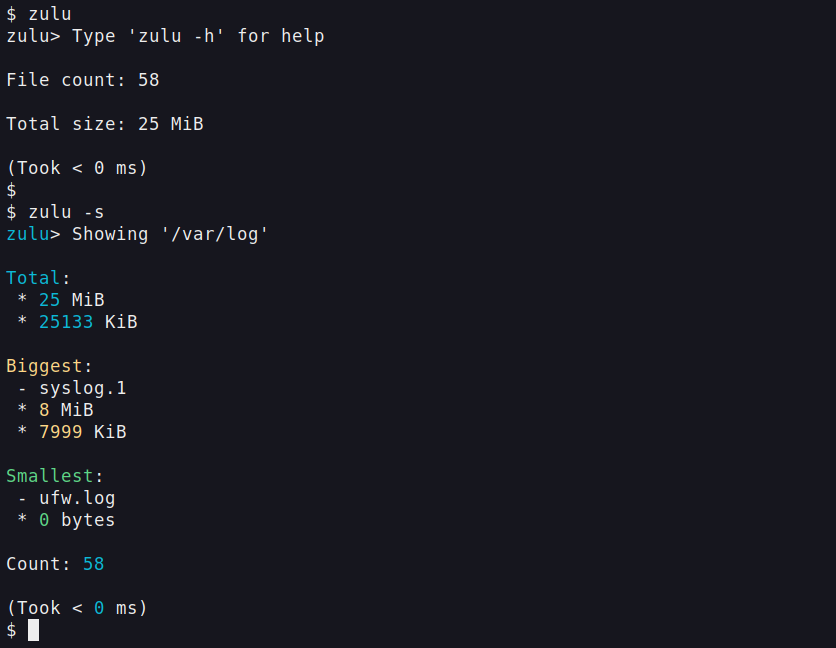
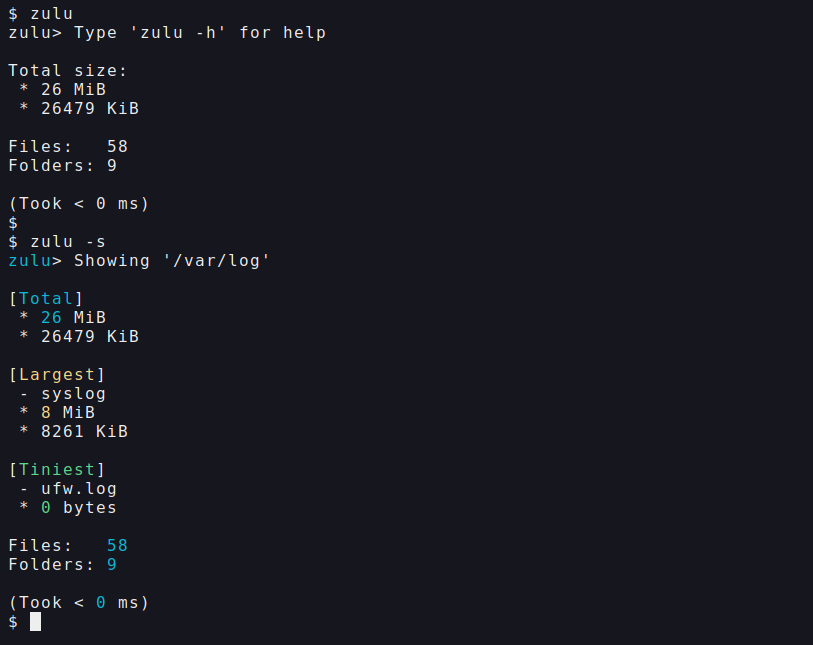
Updated docs, new pictures

diff --git a/README.md b/README.md
@@ -1,16 +1,13 @@
 # Zulu CLI
 
-> Performant directory summaries in a readable format
-
 * **Requirements:** C compiler and a POSIX system, no other dependencies.
 
 * **Versions:** in [releases](https://github.com/Ivory-Hubert/zulu/releases)
-
-* **Integration:** [examples](./docs/EXAMPLES.md) using piped output 
+ 
 
 ## Appearance
 
-That's the basic output and summary version in action:
+That's the basic output and summary in action:
 
 ![Nice CLI](docs/pics/basic_output.png)
 
@@ -18,17 +15,19 @@ That's the basic output and summary version in action:
 ## Features
 
 * Summaries of the current directory or a provided one.
-* Lists only useful units together, depending on sizes: GiB & MiB | MiB & KiB | Bytes.
+* Lists only useful units together, depending on sizes: `GiB & MiB` | `MiB & KiB` | `KiB & bytes` | `just bytes`
 * Can list the files & subfolders found, *always lists the biggest & smallest file*.
-* Simple output mode that skips some logic, to display only total size & count, and only in the largest unit needed.
+* Simple output mode that skips some logic, to display only total size & count, and only in the largest units needed.
 * Byte output mode that skips math entirely, only lists as it reads. *This mode outputs in a parser-friendly format when piped*.
 * Built-in byte converter, displays provided bytes in GiB, MiB & KiB.
 * Can display detailed file stats for CWD files or full paths, *follows symlinks by default*.
 
-Some visual output [examples](./docs/pics)
+See also:
+* Some more output [screenshots](./docs/pics/README.md)
+* Integration [examples](./docs/EXAMPLES.md) using piped output
 
 > [!NOTE]
-> Zulu does not report any metadata other than file size, *outside of file stat view*. Does not go into subdirectories. Ignores non-files entirely, *can still list subfolders*.
+> Zulu does not report any metadata other than file size, *outside of file stat view*. Does not go into subdirectories. Ignores non-files entirely, *will still list the subfolders*.
 
 
 ## About
@@ -42,4 +41,5 @@ Do note that you should either trust my provided binary (*reverse engineer for a
 I naturally have the `compile.sh` & `Makefile` in root for gcc users. 
 Then drop it in `~/.local/bin` or make a bash alias to the binary for easy access.
 
-Feedback, suggestions and contributions are always welcome.
+---
+Feedback, suggestions and contributions are always welcome. Licensed under the terms of the GNU [General Public License version 3](https://www.gnu.org/licenses/gpl-3.0.html)

diff --git a/CHANGELOG.md b/CHANGELOG.md
@@ -6,6 +6,18 @@ The format is based on [Keep a Changelog](https://keepachangelog.com/en/1.1.0/)
 
 [DA](https://github.com/Ivory-Hubert/Developer-Assistant) assures the format stays consistent.
 
+## [Unreleased]
+
+### Changed
+- **Unit math & display**
+
+Changed the math engine a bit, so now for every size category (*total, biggest, smallest*) two units are always displayed. So: `GiB | MiB`, `MiB | KiB`, `KiB & bytes`, or just bytes. Also the basic no colour output will now show the second unit aswell. 
+
+- **UI updates**
+
+Yet again some more UI tweaking going on. I also now count the subfolders that Zulu finds and display that count along side the file count too. So now you get a good picture of a folders contents without the overhead of recursion. Also made the summary display more structured. 
+
+
 ## [0.1.1] - 2026-04-24
 
 ### Added
@@ -15,7 +27,7 @@ This one is simple and effective, takes a raw byte count and converts it to KiB,
 
 - **File stats**
 
-Now one can' say it's just a dumb file size tool, drop a file name from your CWD or a file path to Zulu with the `-f` flag and you get similar output to simple `stat`, Zulu just follows symlinks automatically and formats the output (*no colors*).
+Now one can't say it's just a dumb file size tool, drop a file name from your CWD or a file path to Zulu with the `-f` flag and you get similar output to simple `stat`, Zulu just follows symlinks automatically and formats the output (*no colors*).
 
 ### Changed
 - **For the machines**
